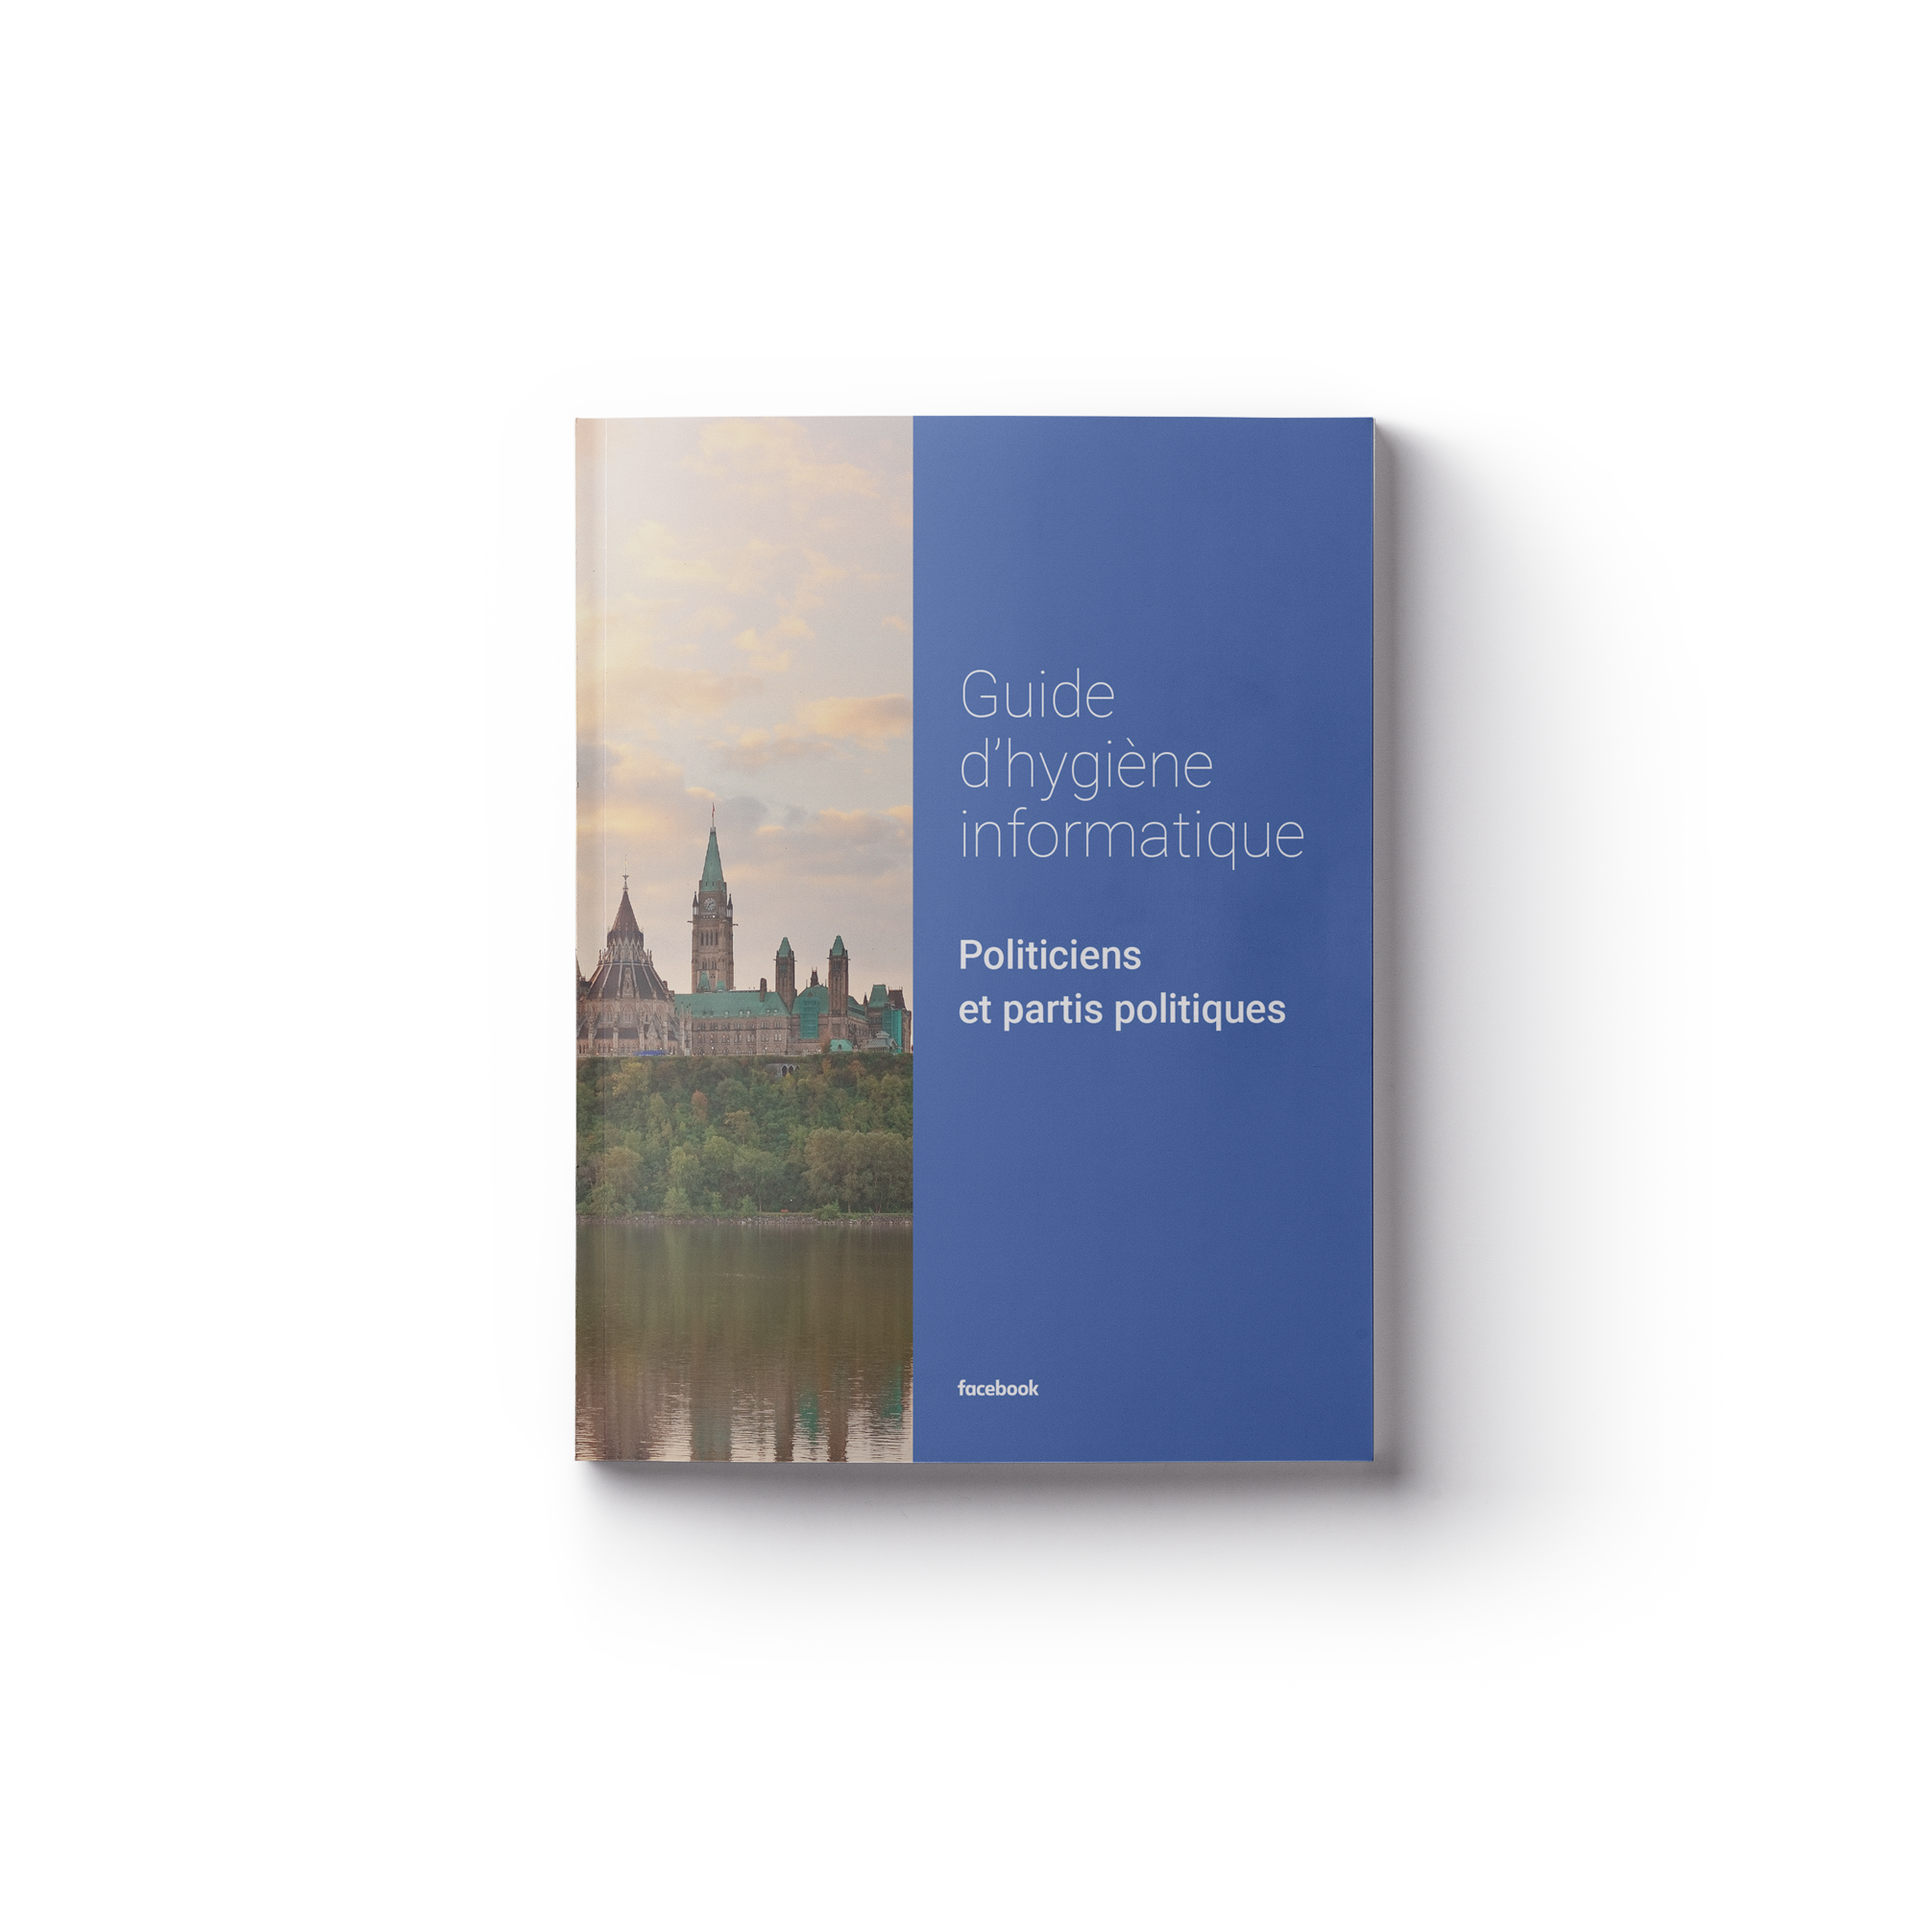
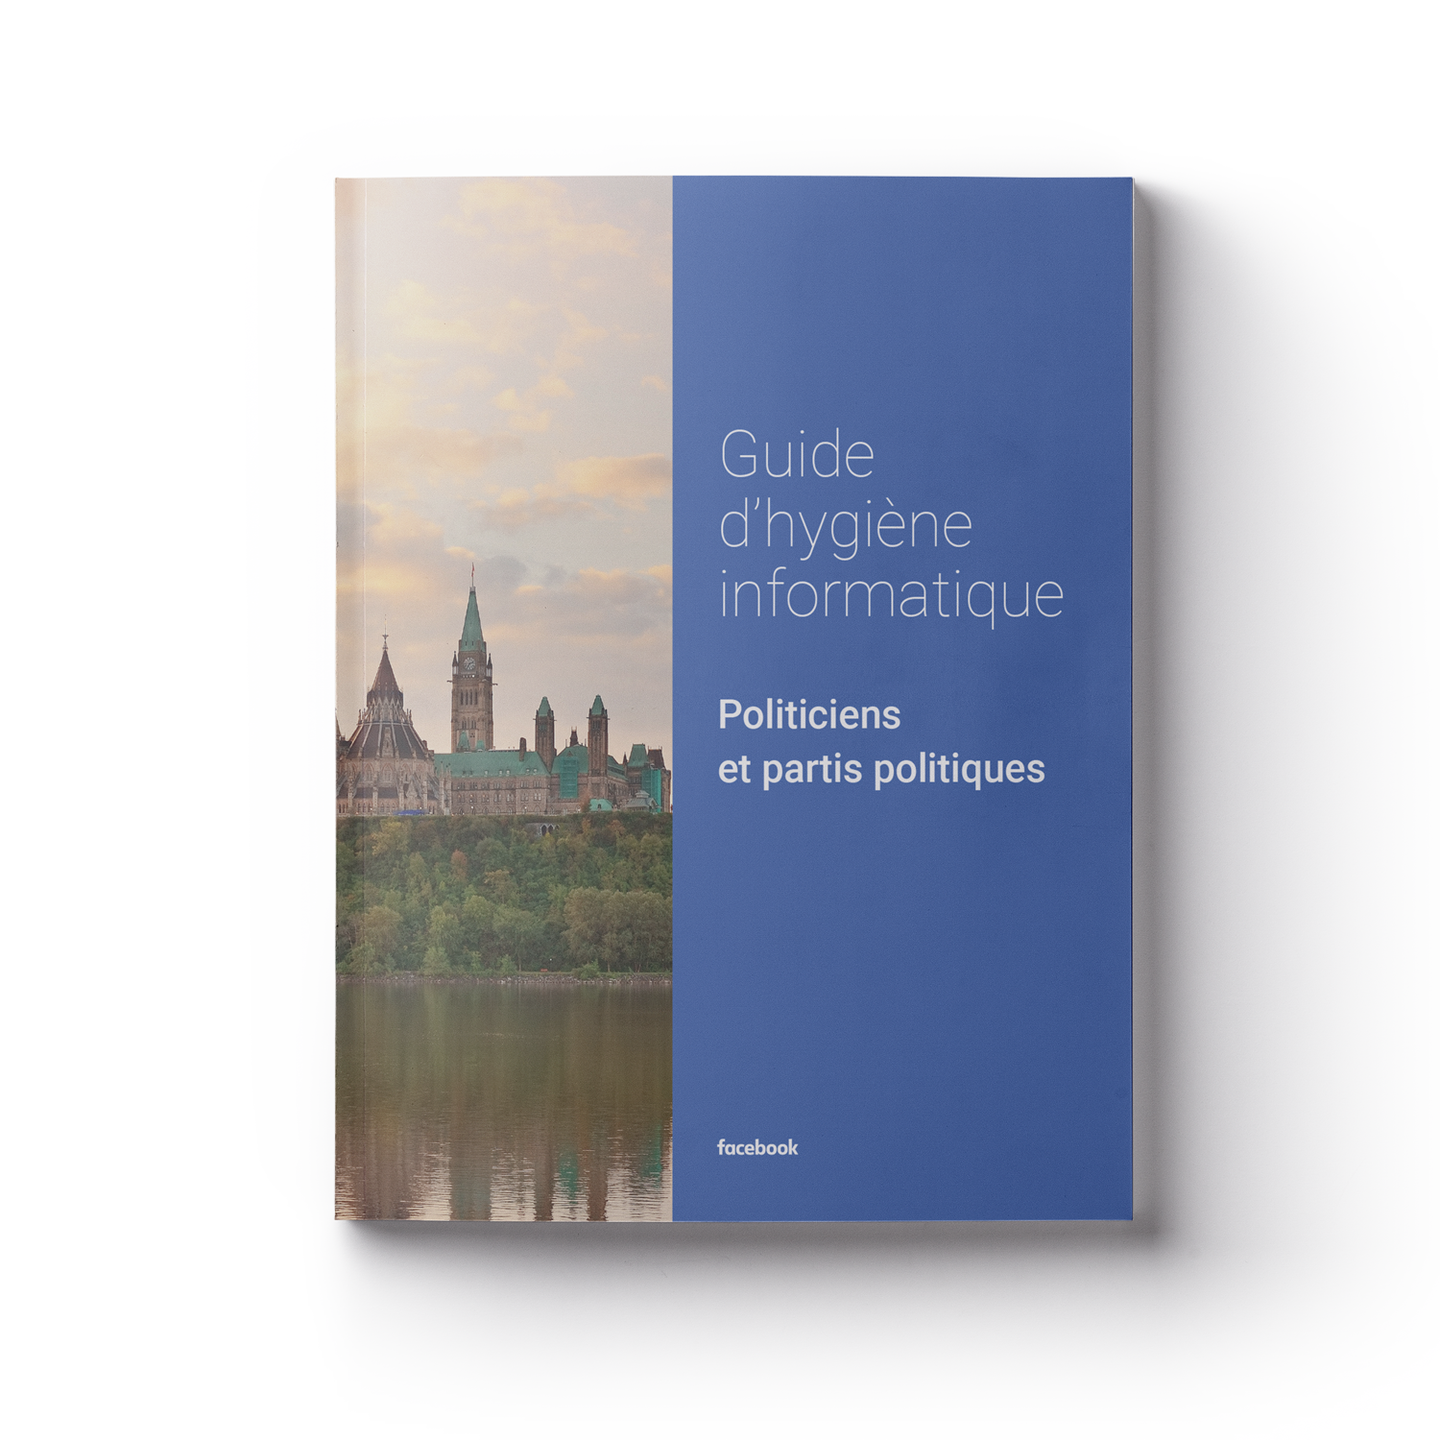
design tweaks

diff --git a/dist/index.html b/dist/index.html
@@ -43,8 +43,8 @@
           <ul>
           <li>The launch of a new 2-year partnership between Facebook Canada and MediaSmarts to promote digital and news literacy;</li>
           <li>The release of the Facebook Cyber Hygiene Guide for Politicians and Political Parties, to support information security;</li>
-          <li>The launch of an emergency Canadian Facebook Cyber Threats Crisis Email Line, in the event of cyber interference including suspected hacks; and</li>
-          <li>The announcement of a Facebook Cyber Hygiene Training Program open to all federal political parties.  </li>
+          <li style="letter-spacing: 0;">The launch of an emergency Canadian Facebook Cyber Threats Crisis Email Line, in the event of cyber interference including suspected hacks; and</li>
+          <li>The announcement of a Facebook Cyber Hygiene Training Program open to all federal political parties.</li>
           </ul>
           <p>Below, you can download the Facebook Cyber Hygiene Guide for Politicians and Political Parties providing best practices for politicians and political parties on how to keep Facebook Pages and accounts secure.</p>
 
@@ -53,7 +53,7 @@
 
         <div class="foreground__content foreground--fr">
           <h1>Initiative canadienne pour l’intégrité électorale Facebook</h1>
-          <p>Chez Facebook, nous nous engageons à faire ce qu’il faut pour protéger et préserver l’intégrité du processus électoral au Canada en assurant que les Pages et les comptes des politiciens et des partis politiques sont sécurisés et que les gens ont accès à de l'information fiable représentant divers points de vue.</p>
+          <p style="letter-spacing: 0;">Chez Facebook, nous nous engageons à faire ce qu’il faut pour protéger et préserver l’intégrité du processus électoral au Canada en assurant que les Pages et les comptes des politiciens et des partis politiques sont sécurisés et que les gens ont accès à de l'information fiable représentant divers points de vue.</p>
           <p>L' Initiative canadienne pour l’intégrité électorale Facebook est une réponse directe au rapport Cybermenaces contre le processus démocratique du Canada du Centre de la sécurité des télécommunications. Celle-ci contient:</p>
           <ul>
             <li>Le lancement d'un nouveau partenariat de deux ans entre Facebook Canada et HabiloMédias pour promouvoir la littératie numérique et l'éducation aux médias</li>

diff --git a/src/templates/index.html b/src/templates/index.html
@@ -43,8 +43,8 @@
           <ul>
           <li>The launch of a new 2-year partnership between Facebook Canada and MediaSmarts to promote digital and news literacy;</li>
           <li>The release of the Facebook Cyber Hygiene Guide for Politicians and Political Parties, to support information security;</li>
-          <li>The launch of an emergency Canadian Facebook Cyber Threats Crisis Email Line, in the event of cyber interference including suspected hacks; and</li>
-          <li>The announcement of a Facebook Cyber Hygiene Training Program open to all federal political parties.  </li>
+          <li style="letter-spacing: 0;">The launch of an emergency Canadian Facebook Cyber Threats Crisis Email Line, in the event of cyber interference including suspected hacks; and</li>
+          <li>The announcement of a Facebook Cyber Hygiene Training Program open to all federal political parties.</li>
           </ul>
           <p>Below, you can download the Facebook Cyber Hygiene Guide for Politicians and Political Parties providing best practices for politicians and political parties on how to keep Facebook Pages and accounts secure.</p>
 
@@ -53,7 +53,7 @@
 
         <div class="foreground__content foreground--fr">
           <h1>Initiative canadienne pour l’intégrité électorale Facebook</h1>
-          <p>Chez Facebook, nous nous engageons à faire ce qu’il faut pour protéger et préserver l’intégrité du processus électoral au Canada en assurant que les Pages et les comptes des politiciens et des partis politiques sont sécurisés et que les gens ont accès à de l'information fiable représentant divers points de vue.</p>
+          <p style="letter-spacing: 0;">Chez Facebook, nous nous engageons à faire ce qu’il faut pour protéger et préserver l’intégrité du processus électoral au Canada en assurant que les Pages et les comptes des politiciens et des partis politiques sont sécurisés et que les gens ont accès à de l'information fiable représentant divers points de vue.</p>
           <p>L' Initiative canadienne pour l’intégrité électorale Facebook est une réponse directe au rapport Cybermenaces contre le processus démocratique du Canada du Centre de la sécurité des télécommunications. Celle-ci contient:</p>
           <ul>
             <li>Le lancement d'un nouveau partenariat de deux ans entre Facebook Canada et HabiloMédias pour promouvoir la littératie numérique et l'éducation aux médias</li>

diff --git a/dist/css/main.css b/dist/css/main.css
@@ -9,6 +9,7 @@ body {
 
 .lang-switch {
   text-align: center;
+  position: relative;
   z-index: 10;
   width: 100%; }
   .lang-switch > span {
@@ -19,10 +20,17 @@ body {
     cursor: pointer;
     color: #3b5998;
     border: 1px solid #3b5998;
-    transition: all .3s ease; }
+    transition: all .3s ease;
+    opacity: .4; }
     .lang-switch > span:hover {
       background-color: rgba(59, 89, 152, 0.2);
       transition: all .3s ease; }
+
+.js-en .lang-switch--en,
+.js-fr .lang-switch--fr {
+  border-color: white;
+  color: white;
+  opacity: 1; }
 
 .header {
   background: #ffffff;
@@ -46,14 +54,17 @@ body {
     @media (min-width: 64em) {
       .header .header--fr,
       .header .header--en {
-        width: 50vw; } }
+        width: 50vw;
+        display: flex;
+        flex-direction: column; } }
 
 .mockup {
-  width: 100vw;
-  margin: -80px 0 -60px; }
+  width: 100vw; }
   @media (min-width: 64em) {
     .mockup {
-      width: 600px; } }
+      width: 600px;
+      margin: 0 0 0 30px;
+      flex: 1; } }
 
 .logo-wrapper {
   text-align: center; }
@@ -122,7 +133,10 @@ body {
     @media (min-width: 64em) {
       .foreground__content {
         height: 90vh;
-        overflow: auto; } }
+        overflow: auto;
+        display: flex;
+        justify-content: center;
+        flex-direction: column; } }
     @media (max-width: 63.9375em) {
       .foreground__content {
         background-color: #3b5998; } }
@@ -131,6 +145,9 @@ body {
     font-weight: 100;
     font-size: 2.2rem;
     margin-bottom: 15px; }
+    @media (min-width: 64em) {
+      .foreground h1 {
+        margin-bottom: 55px; } }
   .foreground h2 {
     font-size: 1.7rem;
     font-size: 1.2rem;
@@ -153,8 +170,11 @@ body {
 
 .by-line {
   position: absolute;
-  bottom: 10px;
-  left: 5vh;
+  bottom: 0;
+  left: 0;
+  box-sizing: border-box;
+  padding: 10px 55px;
+  width: 100%;
   opacity: 0.95;
   font-size: .8rem;
   text-decoration: none;
@@ -163,6 +183,9 @@ body {
   letter-spacing: .6px; }
   .by-line:hover {
     color: black; }
+
+.js-fr .by-line {
+  text-align: right; }
 
 @media (max-width: 63.9375em) {
   .js-en .header--fr {

diff --git a/src/scss/main.scss b/src/scss/main.scss
@@ -26,6 +26,7 @@ body {
 // Lang switch
 .lang-switch {
   text-align: center;
+  position: relative;
   z-index: 10;
   width: 100%;
 
@@ -38,12 +39,20 @@ body {
     color: $main-color;
     border: 1px solid $main-color;
     transition: all .3s ease;
+    opacity: .4;
 
     &:hover {
       background-color: rgba($main-color, .2);
       transition: all .3s ease;
     }
   }
+}
+
+.js-en .lang-switch--en,
+.js-fr .lang-switch--fr {
+  border-color: white;
+  color: white;
+  opacity: 1;
 }
 
 .header {
@@ -67,16 +76,19 @@ body {
 
     @include breakpoint($large) {
       width: 50vw;
+      display: flex;
+      flex-direction: column;
     }
   }
 }
 
 .mockup {
   width: 100vw;
-  margin: -80px 0 -60px;
 
   @include breakpoint($large) {
     width: 600px;
+    margin: 0 0 0 30px;
+    flex: 1;
   }
 }
 
@@ -161,6 +173,9 @@ body {
     @include breakpoint($large) {
       height: 90vh;
       overflow: auto;
+      display: flex;
+      justify-content: center;
+      flex-direction: column;
     }
 
     @include breakpoint($large-down) {
@@ -173,6 +188,7 @@ body {
     font-weight: 100;
     font-size: 2.2rem;
     margin-bottom: 15px;
+    @include breakpoint($large) { margin-bottom: 55px; }
   }
 
   h2 {
@@ -208,8 +224,11 @@ body {
 // Footer
 .by-line {
   position: absolute;
-  bottom: 10px;
-  left: 5vh;
+  bottom: 0;
+  left: 0;
+  box-sizing: border-box;
+  padding: 10px 55px;
+  width: 100%;
   opacity: 0.95;
   font-size: .8rem;
   text-decoration: none;
@@ -220,6 +239,10 @@ body {
   &:hover {
     color: rgba(black, 1);
   }
+}
+
+.js-fr .by-line {
+  text-align: right;
 }
 
 // Manipulation
